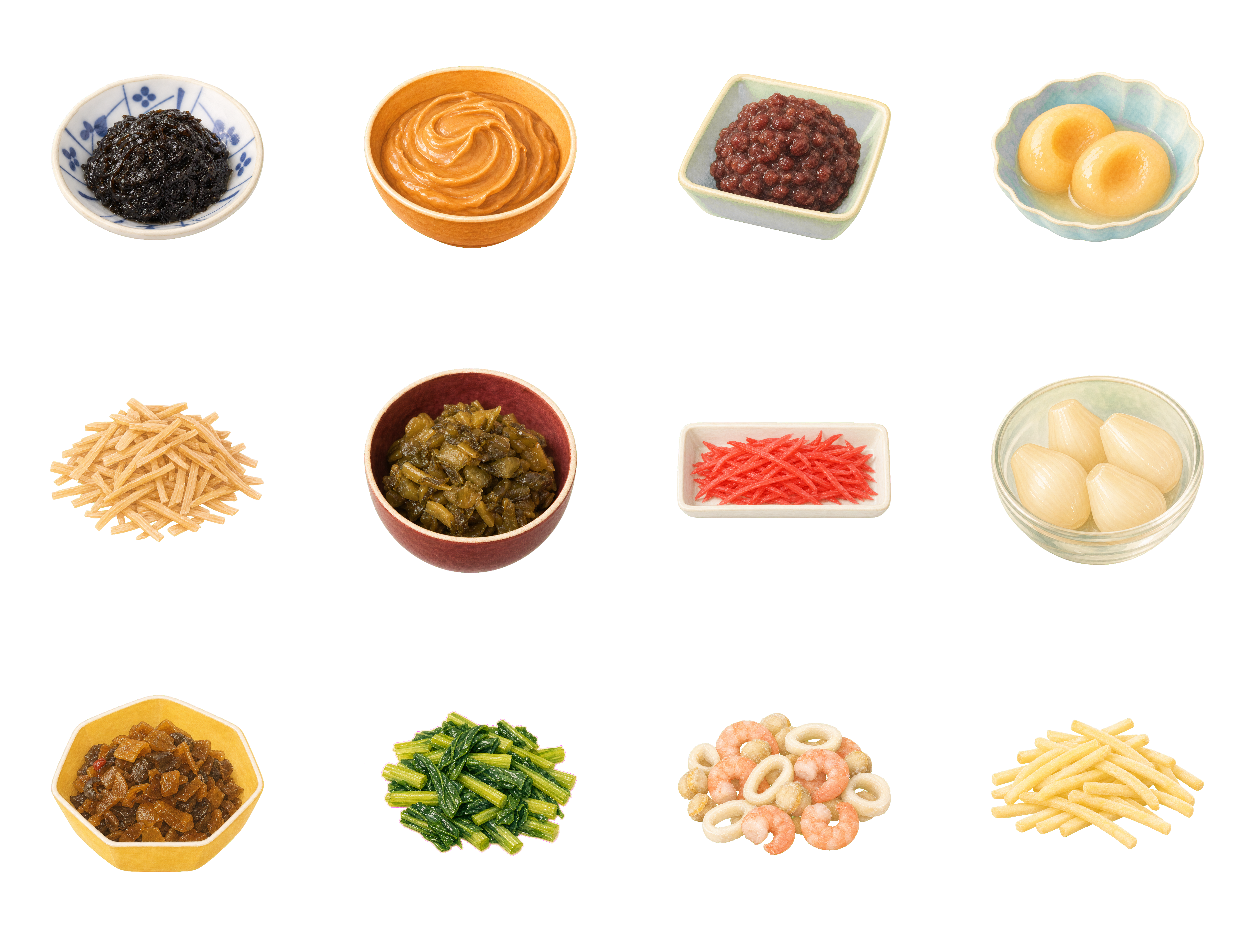
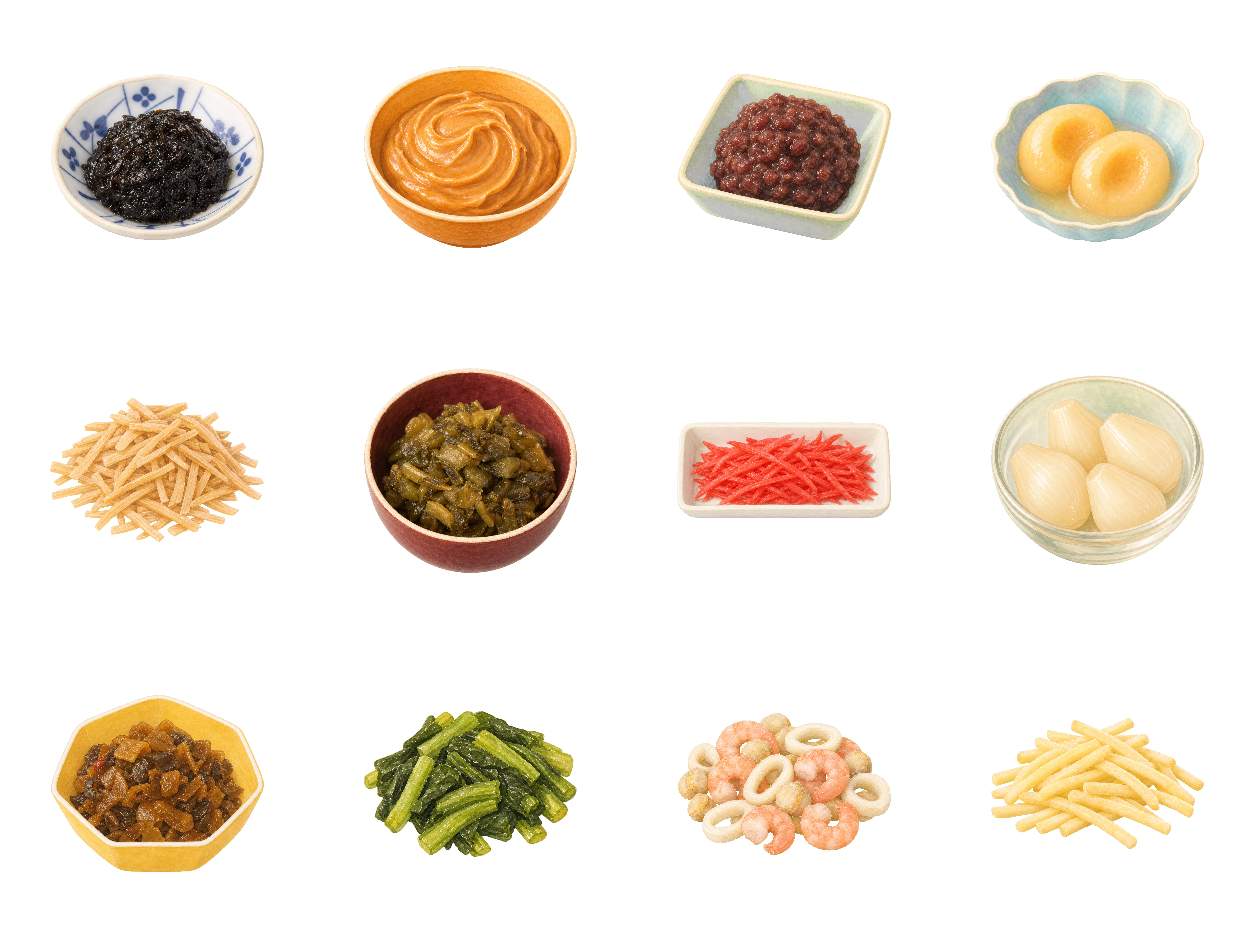
assets: 野沢菜の食材イラストを候補画像へ差し替える
assets/workspace-import-2026-08-02/ の画像候補24枚を現行23番シートとピクセル比較した
結果（比較レポート・compare.html同梱）、12品目中11品目は現行と同一絵柄だったが、
野沢菜のみ別絵柄（現行は明るい青菜風、候補は濃い色で漬物らしい見た目）だった。
本人確認のうえ、候補（漬物らしい見た目）へ差し替える。

- 候補（緑背景）を scripts/key-green.mjs で透過処理し、
  scripts/build-atlas.mjs でシート23を再生成（他11品目のグリッド配置は不変）
- 差し替え前の画像は assets/workspace-import-2026-08-02/superseded/ へ保全
- styles.css の s23 キャッシュ回避クエリを更新し、
  node scripts/cache-version.mjs で sw.js を再生成
- check-atlas-alpha.mjs で背景抜けを確認（緑残留0.0%）

.claude/launch.json: ローカルプレビュー用（Xcode版python3のiCloud権限エラー回避のため
Node製の簡易サーバーを使用）

Changed region(s): [[0.2799, 0.7404, 0.4665, 0.9255]]

diff --git a/assets/workspace-import-2026-08-02/compare.html b/assets/workspace-import-2026-08-02/compare.html
@@ -1,0 +1,110 @@
+<!DOCTYPE html>
+<html lang="ja">
+<head>
+<meta charset="UTF-8">
+<meta name="viewport" content="width=device-width, initial-scale=1.0">
+<title>食材画像候補の比較 — 現行23番シート vs 2026-08-02取り込み分</title>
+<style>
+  :root {
+    --bg: #1c1f24;
+    --card: #262a31;
+    --line: #3a4049;
+    --text: #e8e6e1;
+    --muted: #9aa0a8;
+    --accent: #e8a13c;
+  }
+  body {
+    margin: 0;
+    padding: 24px;
+    background: var(--bg);
+    color: var(--text);
+    font-family: "Hiragino Sans", "Yu Gothic", sans-serif;
+  }
+  h1 { font-size: 20px; margin: 0 0 4px; }
+  .note { color: var(--muted); font-size: 13px; margin-bottom: 20px; line-height: 1.7; }
+  .row {
+    display: grid;
+    grid-template-columns: 140px repeat(3, 1fr);
+    gap: 12px;
+    align-items: start;
+    background: var(--card);
+    border: 1px solid var(--line);
+    border-radius: 10px;
+    padding: 14px;
+    margin-bottom: 14px;
+  }
+  .item-name { font-weight: 600; font-size: 15px; padding-top: 8px; }
+  .item-name .en { display: block; color: var(--muted); font-weight: 400; font-size: 11px; margin-top: 4px; }
+  .cell { text-align: center; }
+  .cell .label { font-size: 12px; color: var(--muted); margin-bottom: 6px; }
+  .cell.current .label { color: var(--accent); }
+  .cell img {
+    width: 100%;
+    max-width: 340px;
+    border-radius: 6px;
+    /* 透過の有無が見えるよう市松模様を敷く */
+    background:
+      repeating-conic-gradient(#4a4f57 0% 25%, #33373e 0% 50%) 0 0 / 24px 24px;
+  }
+  .meta { font-size: 11px; color: var(--muted); margin-top: 4px; font-variant-numeric: tabular-nums; }
+</style>
+</head>
+<body>
+<h1>食材画像候補の比較（12品目 × 3系統）</h1>
+<p class="note">
+  左＝<strong style="color:var(--accent)">現行</strong>（assets/atlas-src/23、アトラス生成に使用中）／
+  中＝候補（workspace-import-2026-08-02/atlas-src/23、現行と同名だが内容が異なる）／
+  右＝候補keyed（同23-keyed、現行に同名なし）。
+  市松模様は透過部分。寸法は各品目で3系統とも同一。SHA-256は全て相違。
+</p>
+<div id="rows"></div>
+<script>
+const ITEMS = [
+  ["anko", "あんこ"],
+  ["beni-shoga", "紅しょうが"],
+  ["canned-peach", "桃缶"],
+  ["frozen-potato", "冷凍ポテト"],
+  ["frozen-seafood-mix", "冷凍シーフードミックス"],
+  ["fukujinzuke", "福神漬け"],
+  ["menma", "メンマ"],
+  ["nori-tsukudani", "のり佃煮"],
+  ["nozawana", "野沢菜"],
+  ["peanut-butter", "ピーナッツバター"],
+  ["rakkyo", "らっきょう"],
+  ["zasai", "ザーサイ"]
+];
+const META = {
+  "anko": ["1254x1254", "2.3MB / 07c31a35", "1.9MB / 097839f9", "1.7MB / 5ed8b026"],
+  "beni-shoga": ["1448x1086", "1.7MB / 1949098c", "1.5MB / 34ba5281", "1.3MB / 76330663"],
+  "canned-peach": ["1448x1086", "2.4MB / 85ef97fb", "1.8MB / b872affb", "1.6MB / ea75c20d"],
+  "frozen-potato": ["1448x1086", "1.9MB / d919cfda", "1.7MB / 2fd4855e", "1.5MB / 03b4698e"],
+  "frozen-seafood-mix": ["1448x1086", "2.5MB / b3e0b02f", "2.0MB / 82b5af37", "1.8MB / e74df7ba"],
+  "fukujinzuke": ["1448x1086", "1.8MB / 4cc42ab4", "1.7MB / 2fcd9e16", "1.5MB / 3c25246b"],
+  "menma": ["1448x1086", "2.0MB / b37fa20e", "1.8MB / 710a6bcb", "1.5MB / 98847107"],
+  "nori-tsukudani": ["1254x1254", "1.9MB / bf8f5840", "1.7MB / cfe1c3a7", "1.5MB / 18c22ee0"],
+  "nozawana": ["1448x1086", "2.3MB / 00ba0b7a", "1.8MB / 4bd9a15d", "1.6MB / 09dc7a23"],
+  "peanut-butter": ["1448x1086", "1.7MB / e0d118f3", "1.5MB / e61720bf", "1.3MB / 15305079"],
+  "rakkyo": ["1254x1254", "1.5MB / 636b34c2", "1.4MB / 7e312c72", "1.2MB / e16c103b"],
+  "zasai": ["1254x1254", "1.9MB / 1af06419", "1.7MB / fe53b285", "1.5MB / b297c1ca"]
+};
+const COLS = [
+  ["現行（採用中）", (id) => `../atlas-src/23/${id}.png`, "current"],
+  ["候補 23", (id) => `atlas-src/23/${id}.png`, ""],
+  ["候補 23-keyed", (id) => `atlas-src/23-keyed/${id}.png`, ""]
+];
+document.querySelector("#rows").innerHTML = ITEMS.map(([id, jp]) => {
+  const meta = META[id];
+  const cells = COLS.map(([label, src, cls], i) =>
+    `<div class="cell ${cls}">
+       <div class="label">${label}</div>
+       <img src="${src(id)}" alt="${jp} ${label}" loading="lazy">
+       <div class="meta">${meta[i + 1]}</div>
+     </div>`).join("");
+  return `<div class="row">
+    <div class="item-name">${jp}<span class="en">${id} ・ ${meta[0]}</span></div>
+    ${cells}
+  </div>`;
+}).join("");
+</script>
+</body>
+</html>

diff --git a/styles.css b/styles.css
@@ -1344,7 +1344,7 @@ body.is-fridge-dragging .food-consume-station {
 .ingredient-illustration-s20 { background-image: url("assets/ingredient-atlas-20.png?v=20260727-2"); }
 .ingredient-illustration-s21 { background-image: url("assets/ingredient-atlas-21.png?v=20260727-2"); }
 .ingredient-illustration-s22 { background-image: url("assets/ingredient-atlas-22.png?v=20260727-2"); }
-.ingredient-illustration-s23 { background-image: url("assets/ingredient-atlas-23.png?v=20260727-2"); }
+.ingredient-illustration-s23 { background-image: url("assets/ingredient-atlas-23.png?v=20260825-1"); }
 .ingredient-illustration-s24 { background-image: url("assets/ingredient-atlas-24.png?v=20260727-2"); }
 .ingredient-illustration-s25 { background-image: url("assets/ingredient-atlas-25.png?v=20260727-2"); }
 .ingredient-illustration-s26 { background-image: url("assets/ingredient-atlas-26.png?v=20260727-2"); }

diff --git a/sw.js b/sw.js
@@ -4,7 +4,7 @@
 // このファイル自身の内容から書き込む。中身が変わればこのファイルも変わるので、
 // ブラウザが新しい Service Worker と見なして入れ替え、古いキャッシュを捨てる。
 // 手で番号を上げる必要はない。
-const VERSION = "40cae039";
+const VERSION = "45656678";
 const SHELL_CACHE = `fridge-leftovers-${VERSION}`;
 const ASSET_CACHE = "fridge-leftovers-assets";
 
@@ -15,7 +15,7 @@ const REFERENCED = [
   "./manifest.json?v=b750de2d",
   "./assets/icons/favicon-32.png?v=a1371f08",
   "./assets/icons/apple-touch-icon.png?v=0db390f0",
-  "./styles.css?v=656d991b",
+  "./styles.css?v=30dd6779",
   "./recipe-expansion.js?v=3e0c5a6c",
   "./app.js?v=3173be16"
 ];

diff --git a/index.html b/index.html
@@ -12,7 +12,7 @@
   <meta name="apple-mobile-web-app-capable" content="yes">
   <meta name="apple-mobile-web-app-status-bar-style" content="default">
   <meta name="apple-mobile-web-app-title" content="冷蔵庫の現在地">
-  <link rel="stylesheet" href="styles.css?v=656d991b">
+  <link rel="stylesheet" href="styles.css?v=30dd6779">
   <script src="vendor/tesseract/tesseract.min.js?v=7.0.0" defer></script>
   <script src="recipe-expansion.js?v=3e0c5a6c" defer></script>
   <script src="app.js?v=3173be16" defer></script>

diff --git a/assets/workspace-import-2026-08-02/COMPARISON_REPORT_2026-08-25.md b/assets/workspace-import-2026-08-02/COMPARISON_REPORT_2026-08-25.md
@@ -1,0 +1,62 @@
+# 画像候補24枚の比較レポート（2026-08-25）
+
+`assets/workspace-import-2026-08-02/atlas-src/` の候補24枚（`23/` 12枚＋`23-keyed/` 12枚）を、
+現行の `assets/atlas-src/23/` 12枚とピクセル単位で比較した結果。**採用/破棄の判断材料**であり、
+判断はしていない。目視用ページは同フォルダの `compare.html`（ダブルクリックで開ける。
+ローカルサーバー不要）。
+
+## 結論の要約
+
+**12品目中11品目は、現行とまったく同じ絵柄の「緑背景の原版」だった。** 新しい絵ではない。
+唯一 **野沢菜（nozawana）だけが別の絵柄**で、これのみ採用を検討する価値がある。
+
+## 検証方法
+
+- ブラウザのcanvasで現行画像（透過済み）と候補画像を重ね、**現行の不透明ピクセル
+  （前景＝絵の部分）だけ**をRGB比較。背景（透過 vs 緑）は比較から除外
+- 「大差ピクセル」＝RGB合計差が30を超えるピクセルの割合
+
+## 結果
+
+| 品目 | 前景の平均差 | 大差ピクセル | 判定 |
+|---|---|---|---|
+| anko（あんこ） | 0.05 | 0.00% | 同一絵柄 |
+| beni-shoga（紅しょうが） | 0.00 | 0.00% | 同一絵柄 |
+| canned-peach（桃缶） | 0.08 | 0.00% | 同一絵柄 |
+| frozen-potato（冷凍ポテト） | 0.00 | 0.00% | 同一絵柄 |
+| frozen-seafood-mix | 0.00 | 0.00% | 同一絵柄 |
+| fukujinzuke（福神漬け） | 0.00 | 0.00% | 同一絵柄 |
+| menma（メンマ） | 0.00 | 0.00% | 同一絵柄 |
+| nori-tsukudani（のり佃煮） | 0.00 | 0.00% | 同一絵柄 |
+| **nozawana（野沢菜）** | **66.10** | **97.31%** | **別の絵柄** |
+| peanut-butter | 0.00 | 0.00% | 同一絵柄 |
+| rakkyo（らっきょう） | 0.00 | 0.00% | 同一絵柄 |
+| zasai（ザーサイ） | 0.00 | 0.00% | 同一絵柄 |
+
+`23-keyed/` は `23/` と前景が同一（anko・nozawanaで確認、大差0.00%）。
+絵柄は同じで、背景の緑を整えた中間生成物とみられる。ファイルはやや小さい。
+
+## 野沢菜の違い（目視）
+
+- **現行**: 明るい緑。切った茎と葉が大きめで、新鮮な青菜寄りの見た目
+- **候補**: 濃い緑〜オリーブ色。**漬物（野沢菜漬け）らしい熟成した色味**。
+  アプリの品目が「野沢菜＝漬物」を意図しているなら候補のほうが実物に近い可能性がある
+
+## 提案（判断は本人）
+
+1. **11品目（野沢菜以外）**: 新規性がないため**採用作業は不要**。
+   「現行画像の緑背景原版」として価値があるのは復旧・再加工時のみ。
+   - 残す場合: このままでよい（既にgit追跡済み。リポジトリ+37MB）
+   - 容量を気にする場合: iCloud直下 `claude-files-archives/` へ移す
+     （移動は本人承認のうえで。ワークスペース規約により一括移動前にスナップショット）
+2. **野沢菜のみ採用する場合**の手順（このフォルダのREADME.mdの注意に従う）:
+   1. 現行 `assets/atlas-src/23/nozawana.png` をバックアップ
+   2. 候補は緑背景なので `scripts/key-green.mjs` → `scripts/despill-magenta.mjs` 相当の
+      透過処理を通してから `assets/atlas-src/23/` へ配置
+   3. `scripts/build-atlas.mjs` でアトラス再生成 → `scripts/check-atlas-alpha.mjs all` で確認
+
+## 検証環境メモ
+
+- 実施: 2026-08-25、このMacのブラウザ（canvas 2D）
+- 全36枚の寸法・サイズ・SHA-256先頭8桁は `compare.html` 内に記載
+- 各品目とも3系統（現行・候補・候補keyed）で寸法は同一
